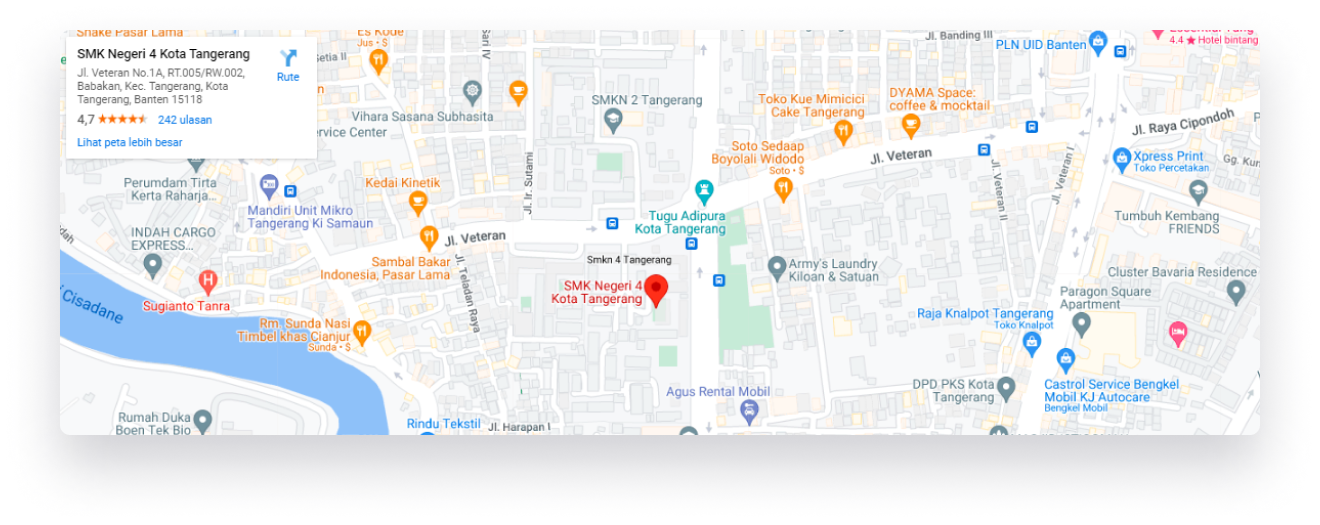
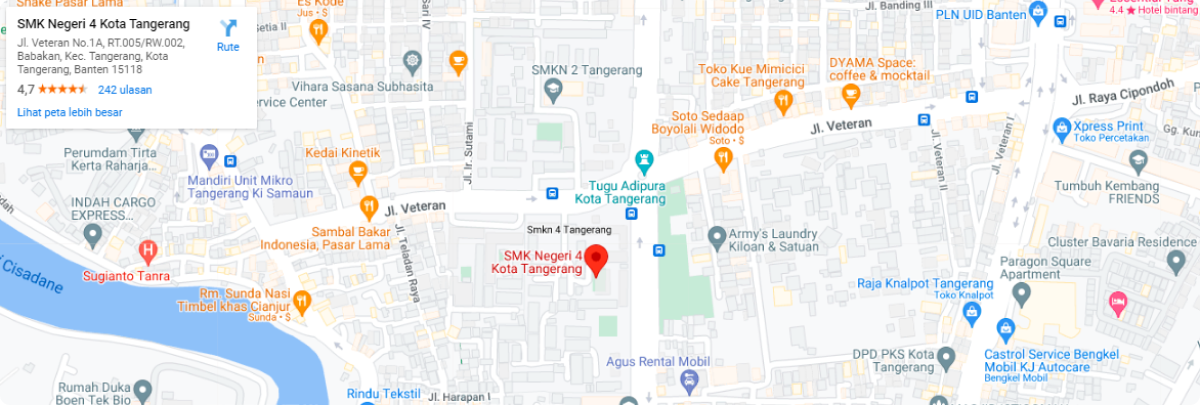
ui: Location Section

diff --git a/src/App.tsx b/src/App.tsx
@@ -1,6 +1,7 @@
 import FeatureSection from "./components/section/FeatureSection";
 import Header from "./components/section/Header";
 import HeroSection from "./components/section/HeroSection";
+import LocationSection from "./components/section/LocationSection";
 import ReviewSection from "./components/section/ReviewSection";
 import ServiceSection from "./components/section/ServiceSection";
 function App() {
@@ -13,6 +14,7 @@ function App() {
       <FeatureSection />
       <ServiceSection />
       <ReviewSection />
+      <LocationSection />
     </>
   );
 }

diff --git a/src/components/section/LocationSection.tsx b/src/components/section/LocationSection.tsx
@@ -1,0 +1,15 @@
+import TitleSection from '../common/TitleSection'
+export default function LocationSection() {
+  return (
+    <section className="container">
+        <div className="mb-32 flex flex-col gap-14 md:mb-36 md:gap-20 lg:mb-40">
+          <TitleSection title="🗺• Our Library Location" subtitle="location" />
+          <img
+            src="./map.png"
+            alt="map location"
+            className="h-[200px] rounded-lg bg-cover bg-center shadow-2xl sm:h-full"
+          />
+        </div>
+      </section>
+  )
+}
